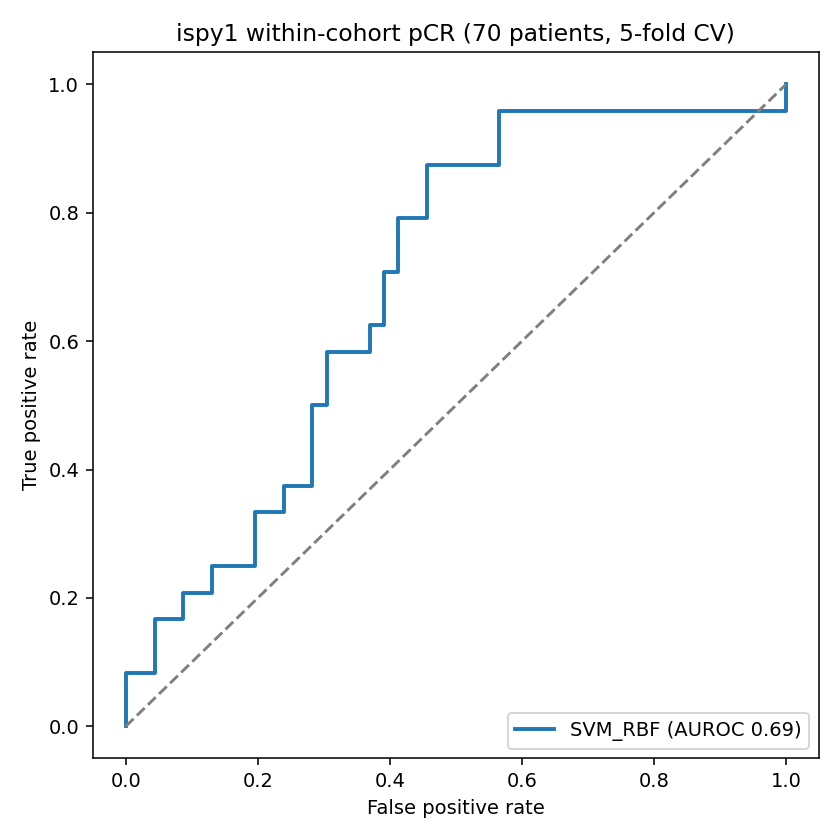
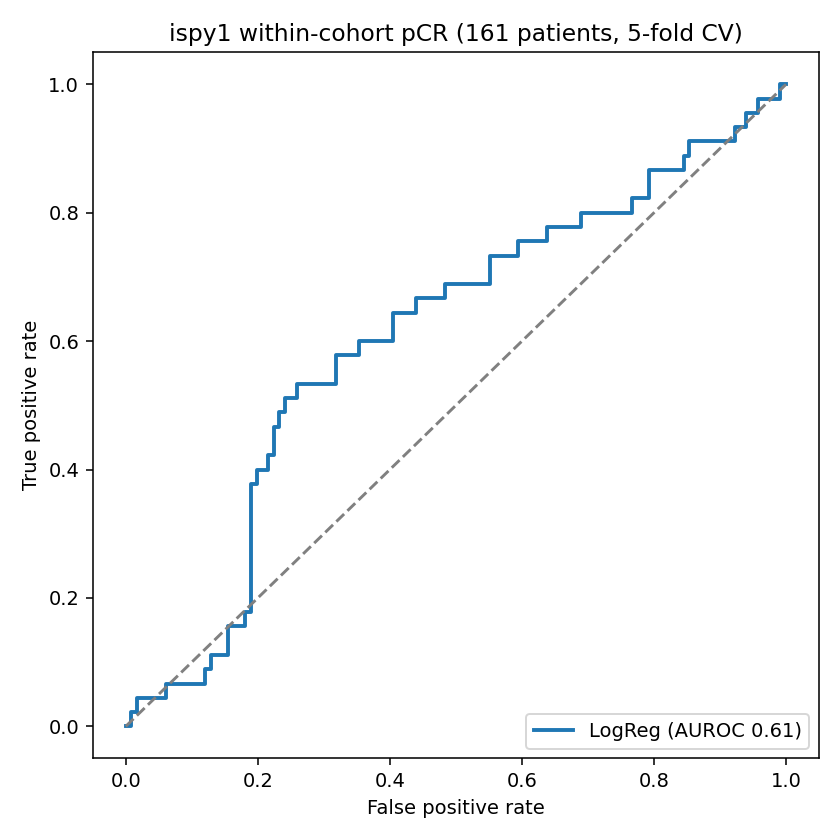
Add I-SPY1 NIfTI radiomics features and upgraded within-cohort validation (n~172)

diff --git a/scripts/extract_features_nifti.py b/scripts/extract_features_nifti.py
@@ -1,0 +1,89 @@
+#!/usr/bin/env python3
+"""extract_features_nifti.py - radiomics-style features from BreastDCEDL I-SPY1 NIfTI + masks."""
+import os, sys, glob, re
+from pathlib import Path
+import numpy as np, pandas as pd, nibabel as nib
+from scipy.stats import skew, kurtosis
+
+HOME=Path.home(); REPO=HOME/"ISPY2-3DGCNN"; OUTDIR=REPO/"reports"/"multicohort"
+BASE=HOME/"breastdcedl_data"/"spy1_unpacked"/"BreastDCEDL_spy1"
+DCE_DIR=BASE/"spt1_dce"; MASK_DIR=BASE/"spy1_mask"
+META=HOME/"BreastDCEDL"/"BreastDCEDL_metadata_min_crop.csv"
+
+def load(p):
+    im=nib.load(str(p)); return np.asanyarray(im.dataobj).astype(np.float32), tuple(float(z) for z in im.header.get_zooms()[:3])
+def numkey(s):
+    r=re.findall(r"\d+",str(s)); return str(int(max(r,key=len))) if r else str(s)
+def pick_post_pre(pid):
+    fs=glob.glob(str(DCE_DIR/f"{pid}_spy1_vis1_acq*.nii.gz"))
+    if not fs: return None,None
+    idx={int(re.search(r'acq(\d+)',f).group(1)):f for f in fs}
+    return (idx.get(1) or idx.get(max(idx))), idx.get(0)
+def shape_feats(mask,zoom):
+    f={}; v=int(mask.sum()); voxvol=float(np.prod(zoom))
+    f["volume_mm3"]=round(v*voxvol,2); f["n_tumor_slices"]=int((mask.reshape(mask.shape[0],-1).sum(1)>0).sum())
+    if v==0:
+        for k in["bbox_max","bbox_mid","bbox_min","elongation","surface_area","sphericity"]: f[k]=np.nan
+        return f
+    c=np.argwhere(mask); ext=sorted((c.max(0)-c.min(0)+1).tolist(),reverse=True)
+    while len(ext)<3: ext.append(0)
+    f["bbox_max"],f["bbox_mid"],f["bbox_min"]=ext[0],ext[1],ext[2]
+    f["elongation"]=round(ext[2]/ext[0],4) if ext[0] else np.nan
+    try:
+        from skimage.measure import marching_cubes, mesh_surface_area
+        vt,fc,_,_=marching_cubes(mask.astype(float),level=0.5,spacing=zoom)
+        sa=float(mesh_surface_area(vt,fc)); f["surface_area"]=round(sa,2)
+        f["sphericity"]=round((np.pi**(1/3)*(6*v*voxvol)**(2/3))/sa,4) if sa>0 else np.nan
+    except Exception:
+        f["surface_area"]=np.nan; f["sphericity"]=np.nan
+    return f
+def firstorder(vals,pref):
+    ks=["mean","std","median","p10","p90","skew","kurtosis","energy","entropy","iqr"]
+    if len(vals)==0: return {f"{pref}_{k}":np.nan for k in ks}
+    f={f"{pref}_mean":round(float(np.mean(vals)),4),f"{pref}_std":round(float(np.std(vals)),4),
+       f"{pref}_median":round(float(np.median(vals)),4),f"{pref}_p10":round(float(np.percentile(vals,10)),4),
+       f"{pref}_p90":round(float(np.percentile(vals,90)),4),
+       f"{pref}_skew":round(float(skew(vals)),4) if len(vals)>2 else np.nan,
+       f"{pref}_kurtosis":round(float(kurtosis(vals)),4) if len(vals)>3 else np.nan,
+       f"{pref}_energy":round(float(np.sum(vals.astype(np.float64)**2)/len(vals)),2),
+       f"{pref}_iqr":round(float(np.percentile(vals,75)-np.percentile(vals,25)),4)}
+    h,_=np.histogram(vals,bins=32); pr=h/h.sum(); pr=pr[pr>0]
+    f[f"{pref}_entropy"]=round(float(-(pr*np.log2(pr)).sum()),4)
+    return f
+def main():
+    test="--test" in sys.argv; OUTDIR.mkdir(parents=True,exist_ok=True)
+    masks=sorted(glob.glob(str(MASK_DIR/"ISPY1_*_mask.nii.gz")))
+    if not masks: sys.exit(f"no masks under {MASK_DIR}")
+    meta=pd.read_csv(META); meta=meta[meta["dataset"].astype(str).str.lower().str.contains("spy1")]
+    lab=dict(zip(meta["pid"].map(numkey), meta["pCR"]))
+    print(f"{len(masks)} I-SPY1 masks | {len(lab)} spy1 labels in metadata")
+    if test: masks=masks[:1]
+    rows=[]
+    for i,mp in enumerate(masks):
+        pid=os.path.basename(mp).replace("_spy1_vis1_mask.nii.gz","")
+        post,pre=pick_post_pre(pid)
+        if post is None:
+            if test: print(f"  no DCE image for {pid}")
+            continue
+        mask,zoom=load(mp); mask=mask>0; pim,_=load(post)
+        if pim.shape!=mask.shape:
+            if test: print(f"  shape mismatch {pid}: img{pim.shape} vs mask{mask.shape}")
+            continue
+        rec={"patient_id":pid}; rec.update(shape_feats(mask,zoom)); rec.update(firstorder(pim[mask],"post"))
+        if pre:
+            prim,_=load(pre)
+            if prim.shape==mask.shape:
+                pv=prim[mask]; qv=pim[mask]; enh=(qv-pv)/(np.abs(pv)+1e-6)
+                rec["enh_mean"]=round(float(np.mean(enh)),4); rec["enh_p90"]=round(float(np.percentile(enh,90)),4)
+                rec["enh_frac_gt1"]=round(float(np.mean(enh>1.0)),4)
+        rec["pcr"]=lab.get(numkey(pid),np.nan); rows.append(rec)
+        if test:
+            for k,v in rec.items(): print(f"  {k:22s} {v}")
+            print(f"\n  image {pim.shape} spacing {zoom} | tumor voxels {int(mask.sum())}")
+        elif (i+1)%25==0: print(f"  ... {i+1}/{len(masks)}",flush=True)
+    if test: print("\nTEST done - if features look sane, run without --test."); return
+    df=pd.DataFrame(rows); df.to_csv(OUTDIR/"ispy1_features.csv",index=False)
+    n=int(df["pcr"].notna().sum())
+    print(f"\nwrote ispy1_features.csv: {len(df)} patients, {df.shape[1]-2} features, {n} labeled")
+    if n: k=df.dropna(subset=['pcr']); print(f"pCR+={int((k['pcr']==1).sum())} pCR-={int((k['pcr']==0).sum())}")
+if __name__=="__main__": main()
